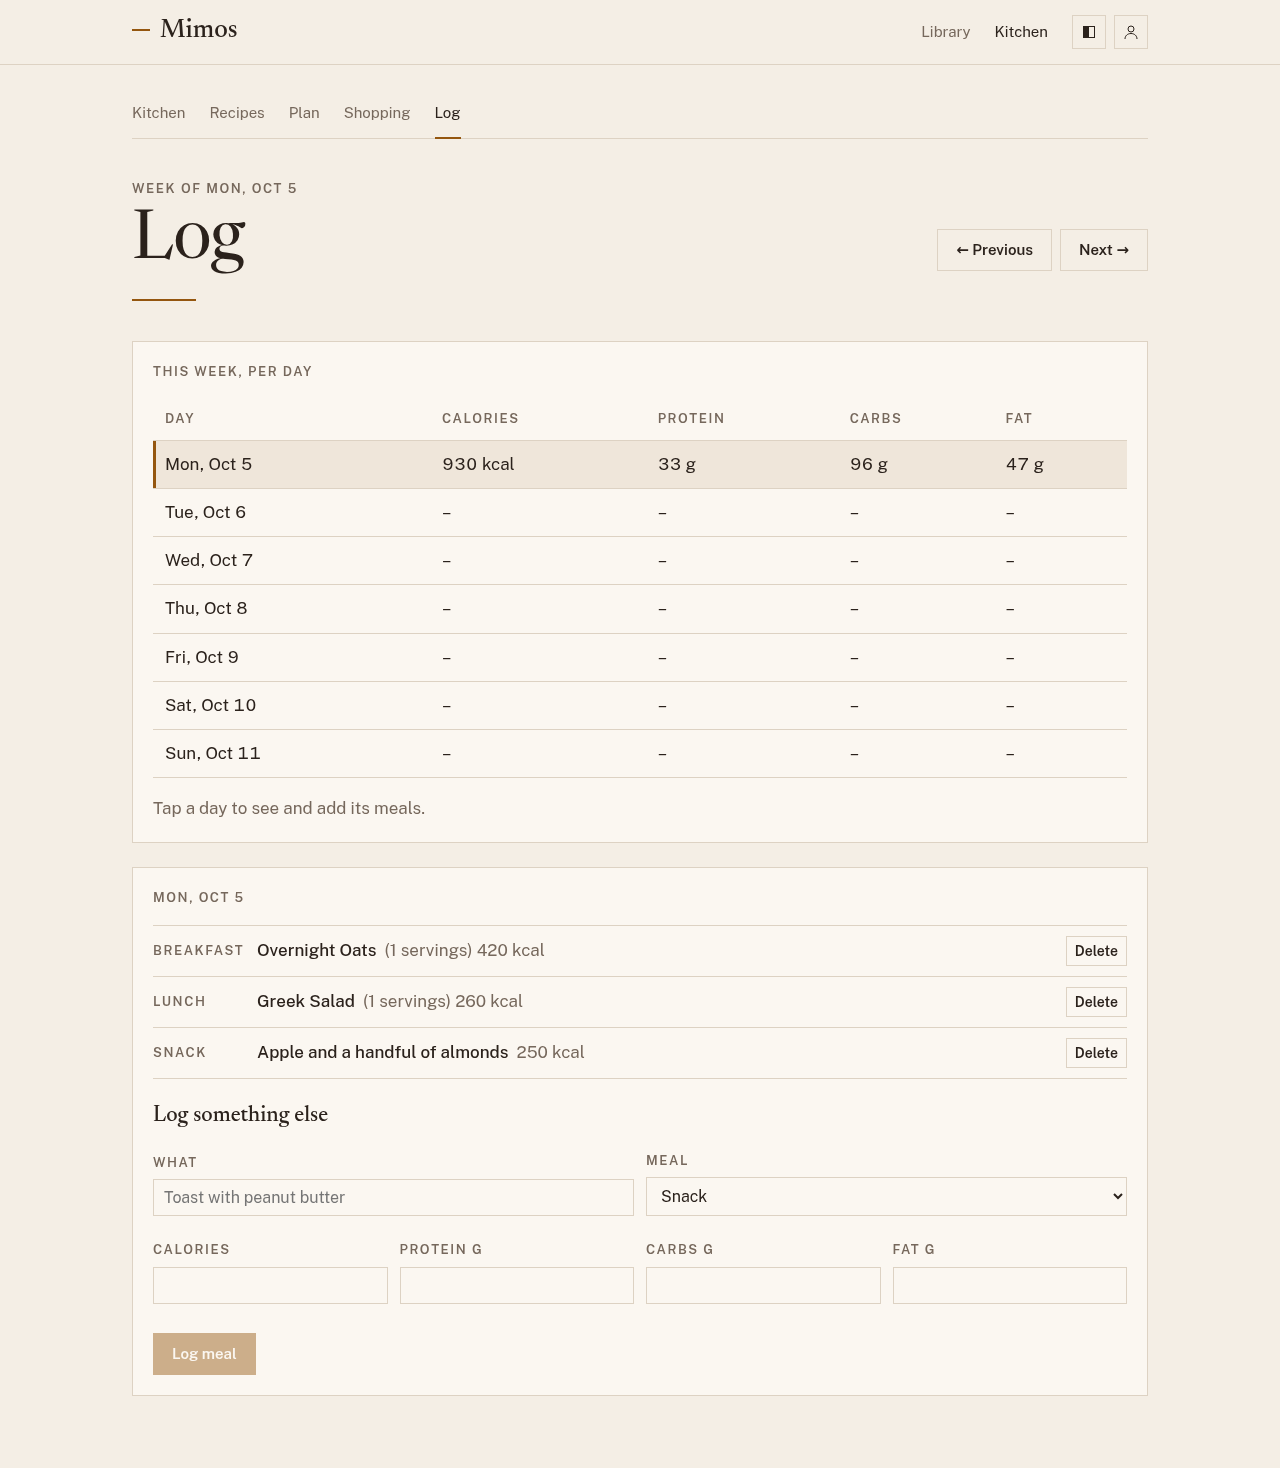
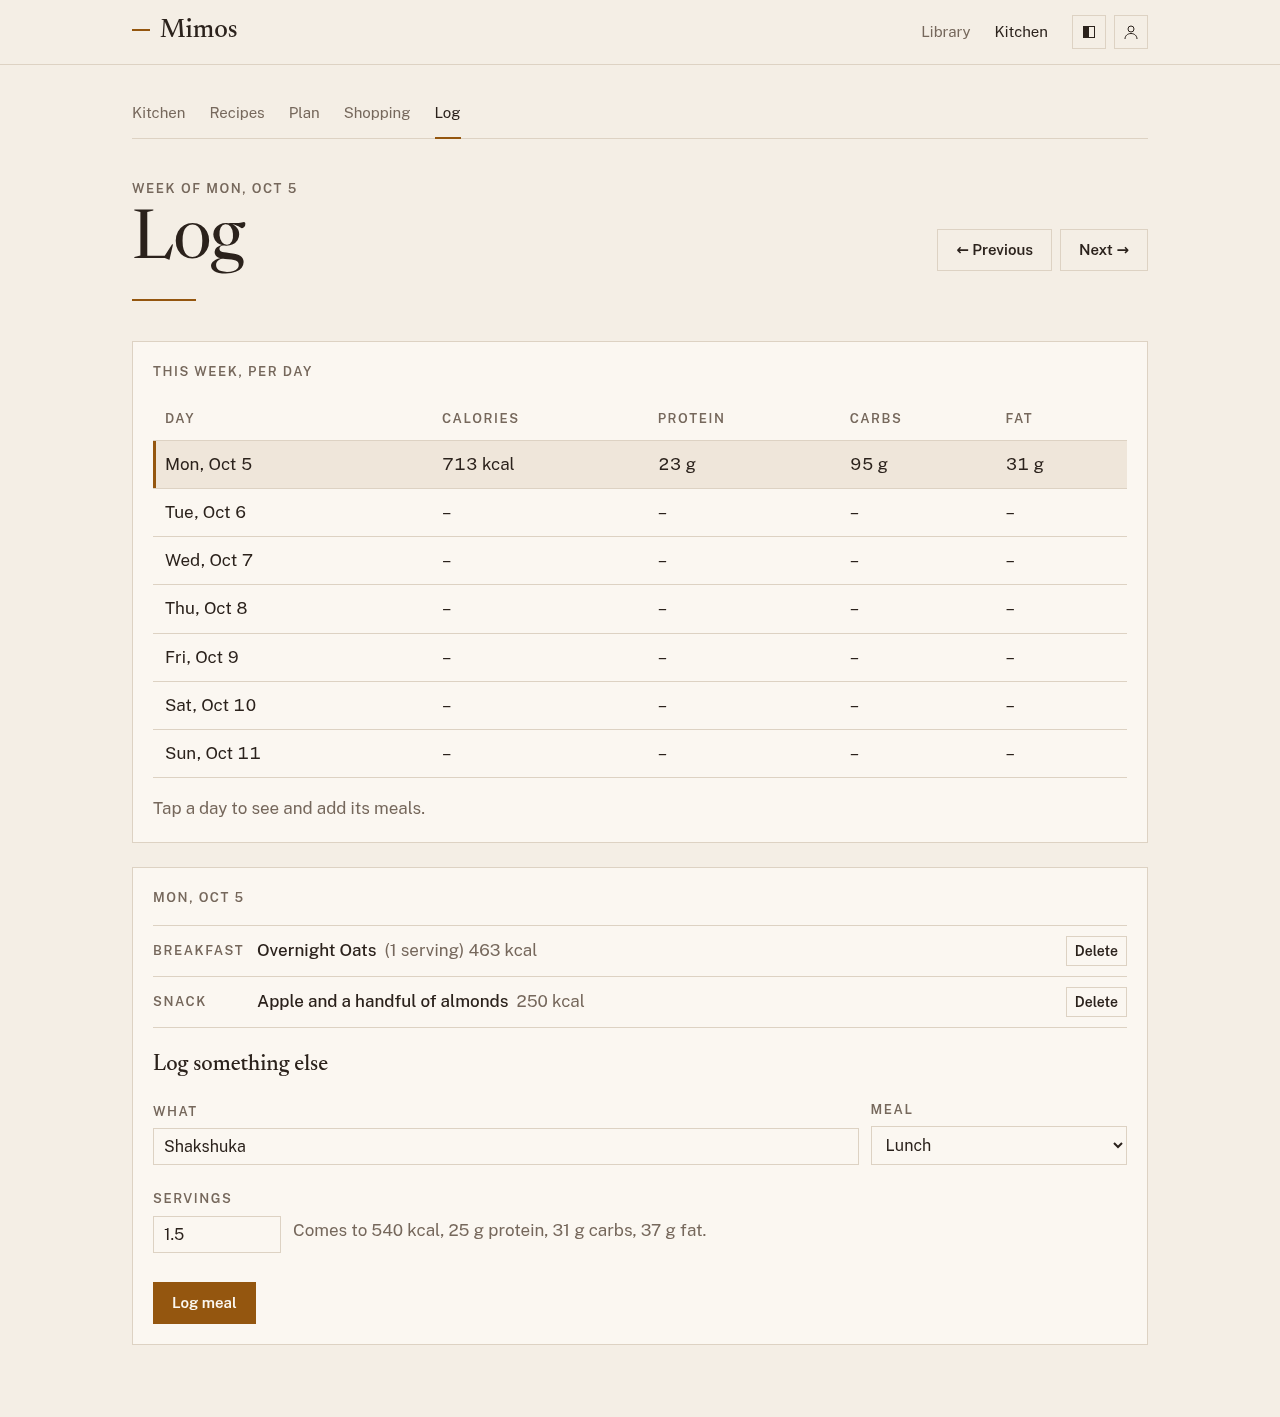
docs: log a recipe from the log page

diff --git a/docs/guide/log.md b/docs/guide/log.md
@@ -21,10 +21,28 @@ share**. **Log** appears only on meals you eat.
 
 ## Logging something else
 
-For anything you didn't plan:
+For anything you didn't plan, log a recipe or describe what you ate.
+
+To log a recipe:
 
 1. In **Log**, choose the day in the week's table.
-2. Under **Log something else**, say what it was and which meal.
+2. Under **Log something else**, start typing the recipe's name in
+   **What**. The list shows your household's recipes and the library's,
+   each with its calories per serving.
+3. Choose the recipe, and choose which meal it was.
+4. In **Servings**, enter how much you ate, from 0.1 to 100. Mimos shows
+   what that comes to.
+5. Choose **Log meal**.
+
+Mimos works out the nutrition from the recipe, as it does for a planned
+meal. If you type over the recipe's name, the entry stops being that
+recipe.
+
+To log something that isn't a recipe:
+
+1. In **Log**, choose the day in the week's table.
+2. Under **Log something else**, type what it was in **What** without
+   choosing from the list, and choose which meal.
 3. Fill in whatever you know of the calories, protein, carbs, and fat.
    Every number is optional.
 4. Choose **Log meal**.
